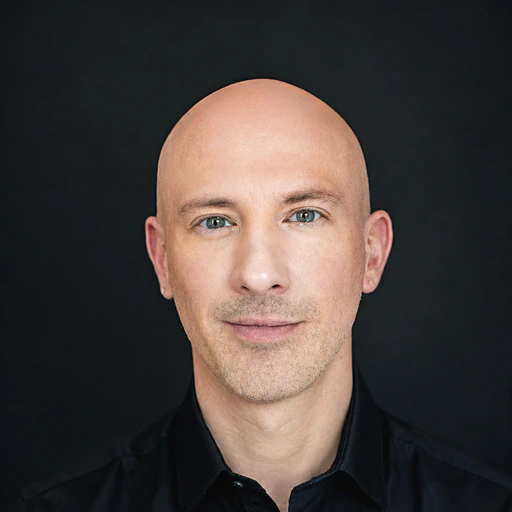
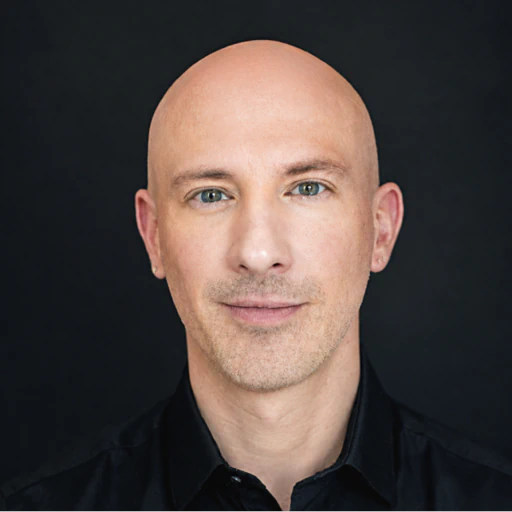
Refine contact and Links profile presentation

diff --git a/_sass/pages/_links.scss b/_sass/pages/_links.scss
@@ -6,6 +6,8 @@
 }
 
 .links-profile {
+    --links-profile-visual-width: 40.625rem;
+
     box-sizing: border-box;
     isolation: isolate;
     overflow: hidden;
@@ -26,27 +28,36 @@
 }
 
 .links-profile::after {
-    background: linear-gradient(
-        180deg,
+    aspect-ratio: 1291 / 722;
+    background: radial-gradient(
+        ellipse 105% 58% at 50% 0%,
         rgba(255, 255, 255, 0) 0%,
-        rgba(255, 255, 255, 0.28) 14%,
-        rgba(255, 255, 255, 0.62) 27%,
-        var(--color-paper) 40%
+        rgba(255, 255, 255, 0.02) 14%,
+        rgba(255, 255, 255, 0.06) 24%,
+        rgba(255, 255, 255, 0.14) 34%,
+        rgba(255, 255, 255, 0.28) 45%,
+        rgba(255, 255, 255, 0.46) 55%,
+        rgba(255, 255, 255, 0.65) 63%,
+        rgba(255, 255, 255, 0.82) 69%,
+        rgba(255, 255, 255, 0.94) 72%,
+        var(--color-paper) 76%
     );
     content: "";
-    inset: 0;
+    inset: 0 auto auto 50%;
     pointer-events: none;
     position: absolute;
+    transform: translateX(-50%);
+    width: var(--links-profile-visual-width);
     z-index: 0;
 }
 
 .links-profile-art {
     display: block;
-    inset: -3.125rem 50% auto auto;
+    inset: -3.75rem 50% auto auto;
     pointer-events: none;
     position: absolute;
     transform: translateX(50%);
-    width: 40.625rem;
+    width: var(--links-profile-visual-width);
     z-index: 0;
 }
 
@@ -66,7 +77,7 @@
 }
 
 .links-portrait {
-    border: 0.625rem solid var(--color-paper);
+    border: 0.1875rem solid var(--color-paper);
     border-radius: 50%;
     box-shadow:
         0 0.25rem 0.5rem rgba(4, 4, 5, 0.14),
@@ -82,8 +93,6 @@
     display: block;
     height: 100%;
     object-fit: cover;
-    transform: scale(1.09) translateY(-2.4%);
-    transform-origin: center;
     width: 100%;
 }
 

diff --git a/_sass/pages/_contact.scss b/_sass/pages/_contact.scss
@@ -15,12 +15,6 @@
     max-width: 39rem;
 }
 
-@media (max-width: 42.5rem) {
-    .contact-hero .page-hero-title {
-        font-size: clamp(2rem, 10vw, 4.5rem);
-    }
-}
-
 .main.contact > .contact-section {
     align-items: start;
     display: grid;
